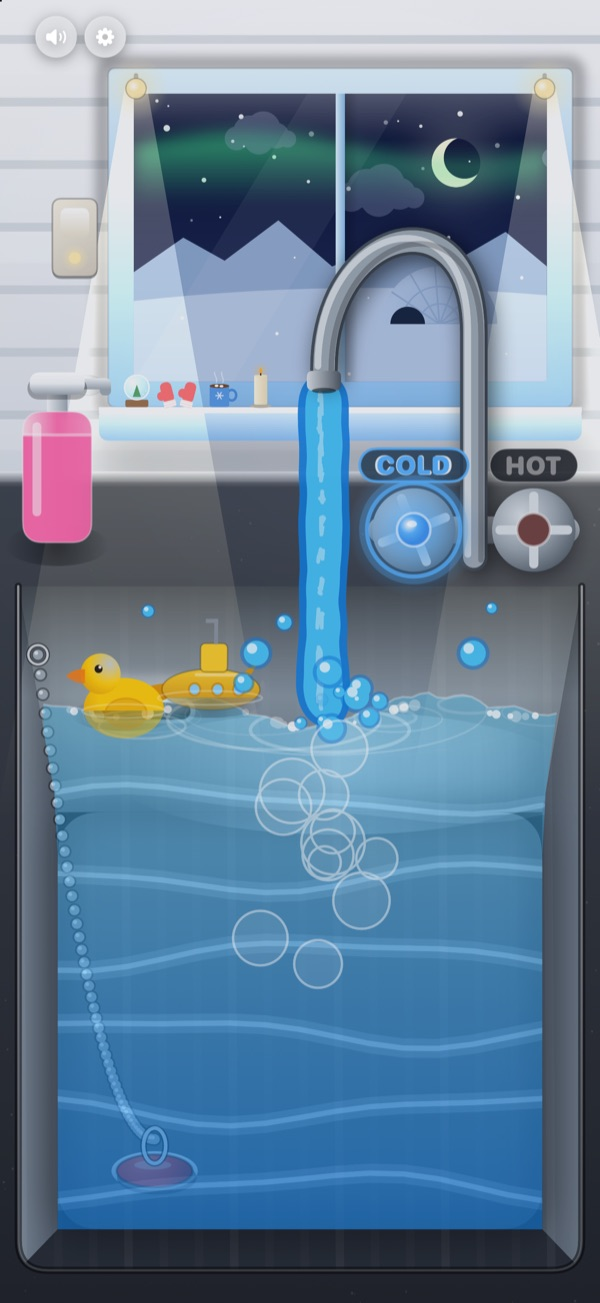
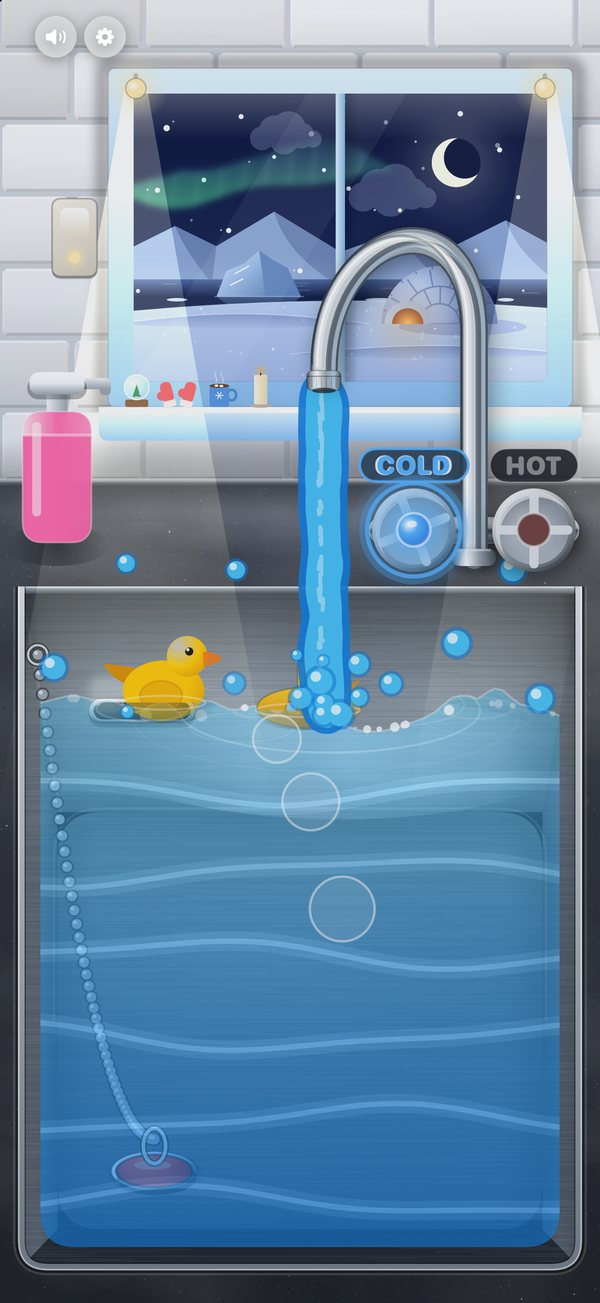
Sensory Sink: about page for version 3.0 (sideways sink, counter things, critters, two volume sliders), new screenshots

diff --git a/waterplay/about/index.html b/waterplay/about/index.html
@@ -5,7 +5,7 @@
   <meta http-equiv="Content-Security-Policy" content="upgrade-insecure-requests; object-src 'none'; base-uri 'self'; form-action 'self' https://api.web3forms.com">
   <meta name="viewport" content="width=device-width, initial-scale=1.0">
   <title>Sensory Sink: Water Play Fun! — For toddlers &amp; autistic kids</title>
-  <meta name="description" content="Sensory Sink is a calm, real-feeling water play sink for toddlers and autistic kids. Turn the taps, pull the plug, float the duck. No ads, works offline.">
+  <meta name="description" content="Sensory Sink is a calm, real-feeling water play sink for toddlers and autistic kids. Turn the taps, pull the plug, float the duck, spot the critters. No ads, works offline.">
   <meta name="robots" content="noindex, nofollow">
   <link rel="canonical" href="https://joeygameznapps.github.io/waterplay/about/">
   <link rel="stylesheet" href="/assets/css/style.css?v=n1105a">
@@ -14,7 +14,7 @@
   <meta property="og:type" content="website">
   <meta property="og:locale" content="en_US">
   <meta property="og:title" content="Sensory Sink: Water Play Fun! — For toddlers &amp; autistic kids">
-  <meta property="og:description" content="Sensory Sink is a calm, real-feeling water play sink for toddlers and autistic kids. Turn the taps, pull the plug, float the duck. No ads, works offline.">
+  <meta property="og:description" content="Sensory Sink is a calm, real-feeling water play sink for toddlers and autistic kids. Turn the taps, pull the plug, float the duck, spot the critters. No ads, works offline.">
   <meta property="og:url" content="https://joeygameznapps.github.io/waterplay/about/">
   <meta property="og:image" content="https://joeygameznapps.github.io/waterplay/img/og.jpg">
   <meta property="og:image:width" content="1200">
@@ -22,7 +22,7 @@
   <meta property="og:image:alt" content="Sensory Sink, a water play app for toddlers on iPhone and iPad, with a rubber duck floating in a filling sink">
   <meta name="twitter:card" content="summary_large_image">
   <meta name="twitter:title" content="Sensory Sink: Water Play Fun! — For toddlers &amp; autistic kids">
-  <meta name="twitter:description" content="Sensory Sink is a calm, real-feeling water play sink for toddlers and autistic kids. Turn the taps, pull the plug, float the duck. No ads, works offline.">
+  <meta name="twitter:description" content="Sensory Sink is a calm, real-feeling water play sink for toddlers and autistic kids. Turn the taps, pull the plug, float the duck, spot the critters. No ads, works offline.">
   <meta name="twitter:image" content="https://joeygameznapps.github.io/waterplay/img/og.jpg">
   <meta name="twitter:image:alt" content="Sensory Sink, a water play app for toddlers on iPhone and iPad, with a rubber duck floating in a filling sink">
   <link rel="apple-touch-icon" sizes="180x180" href="/apple-touch-icon.png">
@@ -30,7 +30,7 @@
   <link rel="icon" type="image/png" sizes="32x32" href="/favicon-32x32.png">
   <link rel="icon" type="image/png" sizes="16x16" href="/favicon-16x16.png">
   <link rel="manifest" href="/site.webmanifest">
-  <script type="application/ld+json" id="ld-seo">{"@context":"https://schema.org","@graph":[{"@type":"Organization","@id":"https://joeygameznapps.github.io/#org","name":"Joemet123 LLC","url":"https://joeygameznapps.github.io/","logo":{"@type":"ImageObject","url":"https://joeygameznapps.github.io/android-chrome-512x512.png","width":512,"height":512},"email":"Business@joemet123.com"},{"@type":"WebSite","@id":"https://joeygameznapps.github.io/#website","url":"https://joeygameznapps.github.io/","name":"JoeyGamezNAppsz (JGnA)","inLanguage":"en","publisher":{"@id":"https://joeygameznapps.github.io/#org"}},{"@type":"AboutPage","@id":"https://joeygameznapps.github.io/waterplay/about/#webpage","url":"https://joeygameznapps.github.io/waterplay/about/","name":"Sensory Sink: Water Play Fun! — For toddlers & autistic kids","description":"Sensory Sink is a calm, real-feeling water play sink for toddlers and autistic kids. Turn the taps, pull the plug, float the duck. No ads, works offline.","inLanguage":"en","isPartOf":{"@id":"https://joeygameznapps.github.io/#website"},"about":{"@id":"https://joeygameznapps.github.io/waterplay/#app"},"mainEntity":{"@id":"https://joeygameznapps.github.io/waterplay/#app"},"breadcrumb":{"@id":"https://joeygameznapps.github.io/waterplay/about/#breadcrumb"},"dateModified":"2026-11-03","primaryImageOfPage":{"@type":"ImageObject","url":"https://joeygameznapps.github.io/waterplay/img/og.jpg","width":1200,"height":630}},{"@type":"BreadcrumbList","@id":"https://joeygameznapps.github.io/waterplay/about/#breadcrumb","itemListElement":[{"@type":"ListItem","position":1,"name":"Apps","item":"https://joeygameznapps.github.io/"},{"@type":"ListItem","position":2,"name":"Sensory Sink","item":"https://joeygameznapps.github.io/waterplay/about/"}]},{"@type":"MobileApplication","@id":"https://joeygameznapps.github.io/waterplay/#app","name":"Sensory Sink: Water Play Fun!","alternateName":["Sensory Sink","Water Play"],"description":"A calm, real-feeling kitchen sink made for toddlers and autistic kids who love water: turn the taps, splash, pull the plug, pump soap bubbles and float the rubber duck. Made for Kids (ages 5 and under). No ads, no accounts, works offline.","url":"https://joeygameznapps.github.io/waterplay/about/","image":"https://joeygameznapps.github.io/icons/waterplay.png","screenshot":["https://joeygameznapps.github.io/waterplay/img/iphone_1.jpg","https://joeygameznapps.github.io/waterplay/img/iphone_6.jpg","https://joeygameznapps.github.io/waterplay/img/iphone_7.jpg","https://joeygameznapps.github.io/waterplay/img/iphone_8.jpg","https://joeygameznapps.github.io/waterplay/img/ipad_1.jpg"],"operatingSystem":"iOS 17.0 or later, iPadOS 17.0 or later","applicationCategory":"GameApplication","applicationSubCategory":"Family","genre":["Family","Casual","Education"],"contentRating":"Made for Kids, ages 5 and under","inLanguage":"en","isAccessibleForFree":true,"accessibilityFeature":["VoiceOver","Switch Control"],"installUrl":"https://apps.apple.com/app/id6810486926","downloadUrl":"https://apps.apple.com/app/id6810486926","sameAs":["https://apps.apple.com/us/app/id6810486926"],"featureList":["Hot and cold taps with on/off lamps","Multi-touch splashing","A plug to pull and push back in","Soap pump, bubbles and foam","Rubber duck, submarine and penguin toys","A steamy window to wipe","Day, sunset and night skies","Thirteen window views","No ads","No accounts","Works offline","Grown-up gate on the purchase","Family Sharing","VoiceOver and Switch Control","iPhone, iPad and iPhone Duo"],"offers":[{"@type":"Offer","price":"0","priceCurrency":"USD","category":"free"},{"@type":"Offer","name":"Unlock Everything","description":"Every window, toy, wall and sound, for good","price":"2.99","priceCurrency":"USD","category":"in-app purchase"}],"publisher":{"@id":"https://joeygameznapps.github.io/#org"},"audience":{"@type":"PeopleAudience","suggestedMinAge":0,"suggestedMaxAge":5}},{"@type":"FAQPage","@id":"https://joeygameznapps.github.io/waterplay/about/#faq","mainEntity":[{"@type":"Question","name":"Is Sensory Sink free?","acceptedAnswer":{"@type":"Answer","text":"Yes. Sensory Sink is free to download and free to play, with four windows, three toys, two wall styles in six colors and the steady water sound. One optional $2.99 purchase, Unlock Everything, opens the other nine windows, six more toys and more for good, once, with no subscription."}},{"@type":"Question","name":"Does Sensory Sink have ads?","acceptedAnswer":{"@type":"Answer","text":"No. There are no ads of any kind, no pop-ups, no analytics and no links out of the app that a child can open. The only two, for rating the app and seeing my other kids' app, sit behind the grown-up check."}},{"@type":"Question","name":"Does it work offline?","acceptedAnswer":{"@type":"Answer","text":"Yes. The sink runs entirely on the device, so it works on a plane, in a car or in a waiting room with no internet connection. Only buying or restoring the unlock needs a connection."}},{"@type":"Question","name":"Is Sensory Sink suitable for autistic children?","acceptedAnswer":{"@type":"Answer","text":"Sensory Sink is made for toddlers and autistic kids. Many autistic and sensory-seeking children love running water, and the app was designed with them in mind: calm sounds, no timers, no scores, nothing that can fail and no sudden surprises. It is a play app, not a therapy or treatment, and every child is different, so try the free version first and see how your child responds."}},{"@type":"Question","name":"What ages is Sensory Sink for?","acceptedAnswer":{"@type":"Answer","text":"Sensory Sink is made for toddlers and autistic kids, and is in the App Store's Kids category for ages 5 and under. There is no reading and nothing to win."}},{"@type":"Question","name":"Does Family Sharing work with the unlock?","acceptedAnswer":{"@type":"Answer","text":"Yes. Unlock Everything supports Family Sharing, so one purchase opens everything on every device in your family group. If it does not appear, tap Restore in the settings."}},{"@type":"Question","name":"Does it work on iPad and the iPhone Duo?","acceptedAnswer":{"@type":"Answer","text":"Yes. Sensory Sink runs on iPhone and iPad with iOS 17 or later. On iPad the sink fills the screen, and on the iPhone Duo it fits the folded cover screen and stays clear of the camera."}},{"@type":"Question","name":"Can my child buy something by accident?","acceptedAnswer":{"@type":"Answer","text":"No. Locked items show a padlock, and tapping one opens a grown-up gate, a multiplication question that has to be typed in, before the purchase sheet appears. A child tapping around the settings cannot reach a purchase."}},{"@type":"Question","name":"How do I get help?","acceptedAnswer":{"@type":"Answer","text":"Use the Sensory Sink support page. A person replies within 3 business days."}}]}]}</script>
+  <script type="application/ld+json" id="ld-seo">{"@context":"https://schema.org","@graph":[{"@type":"Organization","@id":"https://joeygameznapps.github.io/#org","name":"Joemet123 LLC","url":"https://joeygameznapps.github.io/","logo":{"@type":"ImageObject","url":"https://joeygameznapps.github.io/android-chrome-512x512.png","width":512,"height":512},"email":"Business@joemet123.com"},{"@type":"WebSite","@id":"https://joeygameznapps.github.io/#website","url":"https://joeygameznapps.github.io/","name":"JoeyGamezNAppsz (JGnA)","inLanguage":"en","publisher":{"@id":"https://joeygameznapps.github.io/#org"}},{"@type":"AboutPage","@id":"https://joeygameznapps.github.io/waterplay/about/#webpage","url":"https://joeygameznapps.github.io/waterplay/about/","name":"Sensory Sink: Water Play Fun! — For toddlers & autistic kids","description":"Sensory Sink is a calm, real-feeling water play sink for toddlers and autistic kids. Turn the taps, pull the plug, float the duck, spot the critters. No ads, works offline.","inLanguage":"en","isPartOf":{"@id":"https://joeygameznapps.github.io/#website"},"about":{"@id":"https://joeygameznapps.github.io/waterplay/#app"},"mainEntity":{"@id":"https://joeygameznapps.github.io/waterplay/#app"},"breadcrumb":{"@id":"https://joeygameznapps.github.io/waterplay/about/#breadcrumb"},"dateModified":"2026-11-13","primaryImageOfPage":{"@type":"ImageObject","url":"https://joeygameznapps.github.io/waterplay/img/og.jpg","width":1200,"height":630}},{"@type":"BreadcrumbList","@id":"https://joeygameznapps.github.io/waterplay/about/#breadcrumb","itemListElement":[{"@type":"ListItem","position":1,"name":"Apps","item":"https://joeygameznapps.github.io/"},{"@type":"ListItem","position":2,"name":"Sensory Sink","item":"https://joeygameznapps.github.io/waterplay/about/"}]},{"@type":"MobileApplication","@id":"https://joeygameznapps.github.io/waterplay/#app","name":"Sensory Sink: Water Play Fun!","alternateName":["Sensory Sink","Water Play"],"description":"A calm, real-feeling kitchen sink made for toddlers and autistic kids who love water: turn the taps, splash, pull the plug, pump soap bubbles, float the rubber duck and spot the critters. On iPad and the open iPhone Duo, turn it sideways for a bigger sink, two windows and a counter of everyday things to throw in. Made for Kids (ages 5 and under). No ads, no accounts, works offline.","url":"https://joeygameznapps.github.io/waterplay/about/","image":"https://joeygameznapps.github.io/icons/waterplay.png","screenshot":["https://joeygameznapps.github.io/waterplay/img/iphone_1.jpg?v=30","https://joeygameznapps.github.io/waterplay/img/iphone_6.jpg?v=30","https://joeygameznapps.github.io/waterplay/img/iphone_7.jpg?v=30","https://joeygameznapps.github.io/waterplay/img/iphone_8.jpg?v=30","https://joeygameznapps.github.io/waterplay/img/ipad_1.jpg?v=30"],"operatingSystem":"iOS 17.0 or later, iPadOS 17.0 or later","applicationCategory":"GameApplication","applicationSubCategory":"Family","genre":["Family","Casual","Education"],"contentRating":"Made for Kids, ages 5 and under","inLanguage":"en","isAccessibleForFree":true,"accessibilityFeature":["VoiceOver","Switch Control"],"installUrl":"https://apps.apple.com/app/id6810486926","downloadUrl":"https://apps.apple.com/app/id6810486926","sameAs":["https://apps.apple.com/us/app/id6810486926"],"featureList":["Hot and cold taps with on/off lamps","Multi-touch splashing","A plug to pull and push back in","Soap pump, bubbles and foam","Rubber duck, submarine and penguin toys","A steamy window to wipe","More than 40 kinds of critters on the wall, on the counter and outside the window","Day, sunset and night skies","Thirteen window views","A bigger sideways sink on iPad and the open iPhone Duo, with two windows","Everyday things to throw in the sink: sponge, bar of soap, mug, wooden spoon, cork, scrubbing brush, whisk and dish cloth","Toys that lift out of the sink when sideways","Two volume sliders","No ads","No accounts","Works offline","Grown-up gate on the purchase","Family Sharing","VoiceOver and Switch Control","iPhone, iPad and iPhone Duo"],"offers":[{"@type":"Offer","price":"0","priceCurrency":"USD","category":"free"},{"@type":"Offer","name":"Unlock Everything","description":"Every window, toy, wall and sound, for good","price":"2.99","priceCurrency":"USD","category":"in-app purchase"}],"publisher":{"@id":"https://joeygameznapps.github.io/#org"},"audience":{"@type":"PeopleAudience","suggestedMinAge":0,"suggestedMaxAge":5}},{"@type":"FAQPage","@id":"https://joeygameznapps.github.io/waterplay/about/#faq","mainEntity":[{"@type":"Question","name":"Is Sensory Sink free?","acceptedAnswer":{"@type":"Answer","text":"Yes. Sensory Sink is free to download and free to play, with four windows, three toys, two wall styles in six colors, the steady water sound and, on iPad and the open iPhone Duo, the whole counter of things to throw in the sink. One optional $2.99 purchase, Unlock Everything, opens the other nine windows, six more toys and more for good, once, with no subscription."}},{"@type":"Question","name":"Does Sensory Sink have ads?","acceptedAnswer":{"@type":"Answer","text":"No. There are no ads of any kind, no pop-ups, no analytics and no links out of the app that a child can open. The only two, for rating the app and seeing my other kids' app, sit behind the grown-up check."}},{"@type":"Question","name":"Does it work offline?","acceptedAnswer":{"@type":"Answer","text":"Yes. The sink runs entirely on the device, so it works on a plane, in a car or in a waiting room with no internet connection. Only buying or restoring the unlock needs a connection."}},{"@type":"Question","name":"Is Sensory Sink suitable for autistic children?","acceptedAnswer":{"@type":"Answer","text":"Sensory Sink is made for toddlers and autistic kids. Many autistic and sensory-seeking children love running water, and the app was designed with them in mind: calm sounds, no timers, no scores, nothing that can fail and no sudden surprises. It is a play app, not a therapy or treatment, and every child is different, so try the free version first and see how your child responds."}},{"@type":"Question","name":"What ages is Sensory Sink for?","acceptedAnswer":{"@type":"Answer","text":"Sensory Sink is made for toddlers and autistic kids, and is in the App Store's Kids category for ages 5 and under. There is no reading and nothing to win."}},{"@type":"Question","name":"Does Family Sharing work with the unlock?","acceptedAnswer":{"@type":"Answer","text":"Yes. Unlock Everything supports Family Sharing, so one purchase opens everything on every device in your family group. If it does not appear, tap Restore in the settings."}},{"@type":"Question","name":"Does it work on iPad and the iPhone Duo?","acceptedAnswer":{"@type":"Answer","text":"Yes. Sensory Sink runs on iPhone and iPad with iOS 17 or later. On iPad the sink fills the screen with two windows, and turned sideways it becomes a bigger sink with a counter of everyday things to throw in. On the iPhone Duo it fits the folded cover screen and stays clear of the camera, and opened up and held sideways it gets the same bigger sink, two windows and counter."}},{"@type":"Question","name":"What can my child throw in the sink?","acceptedAnswer":{"@type":"Answer","text":"On iPad and the open iPhone Duo held sideways, a counter beside the sink holds a sponge, a bar of soap, a mug, a wooden spoon, a cork, a scrubbing brush, a whisk and a dish cloth. Each does something different in the water: the sponge soaks up water and squeezes it out, the soap makes suds, the mug fills and sinks, the cork bobs. A throw that misses hops back to the counter, so nothing is ever lost. The floating toys can be lifted out and thrown back in too. On iPhone the sink stays upright, without the counter."}},{"@type":"Question","name":"Can my child buy something by accident?","acceptedAnswer":{"@type":"Answer","text":"No. Locked items show a padlock, and tapping one opens a grown-up gate, a multiplication question that has to be typed in, before the purchase sheet appears. A child tapping around the settings cannot reach a purchase."}},{"@type":"Question","name":"How do I get help?","acceptedAnswer":{"@type":"Answer","text":"Use the Sensory Sink support page. A person replies within 3 business days."}}]}]}</script>
 </head>
 <body data-app="waterplay">
   <a class="skip-link" href="#main">Skip To Main Content</a>
@@ -85,18 +85,19 @@
 <section class="legal-sec" id="overview">
 <h2>A calming sink game for kids</h2>
 <p class="lede">Sensory Sink (formerly Water Play) is a real-feeling kitchen sink for little hands, made for toddlers and autistic kids. Turn the taps, fill the bowl, pull the plug and watch it drain. No ads, no accounts, nothing to fail.</p>
-<p>It is calm, open-ended water play for toddlers, preschoolers, autistic kids and every child who can't walk past a running tap. There are no levels, no timers and no wrong answers. Just water, bubbles and a rubber duck.</p>
+<p>It is calm, open-ended water play for toddlers, preschoolers, autistic kids and every child who can't walk past a running tap. There are no levels, no timers and no wrong answers. Just water, bubbles, a rubber duck and whoever wanders by.</p>
+<p>New: turn an iPad sideways, or open an iPhone Duo, for a bigger sink, two windows with different views and a counter of everyday things to throw in the water.</p>
 <p><a class="btn btn-accent" href="https://apps.apple.com/app/id6810486926" target="_blank" rel="noopener">Download Sensory Sink free</a></p>
 </section>
 <section class="legal-sec" id="screenshots">
 <h2>Sensory Sink screenshots</h2>
 <div class="ss-gallery">
-  <figure class="ss-shot"><img src="/waterplay/img/iphone_1.jpg" alt="Sensory Sink on iPhone: a running tap fills a sink with bubbles, a rubber duck and a yellow submarine, under a garden window on a red brick wall" width="600" height="1303" loading="lazy" decoding="async"><figcaption>A real sink for toddlers</figcaption></figure>
-  <figure class="ss-shot"><img src="/waterplay/img/iphone_6.jpg" alt="Sensory Sink on iPhone: a jungle window with a waterfall and a gecko on a green wooden wall above the filling sink" width="600" height="1303" loading="lazy" decoding="async"><figcaption>Thirteen windows to explore</figcaption></figure>
-  <figure class="ss-shot"><img src="/waterplay/img/iphone_7.jpg" alt="Sensory Sink on iPhone at night: a snowy Arctic window under the northern lights, with a light switch on the wall beside it" width="600" height="1303" loading="lazy" decoding="async"><figcaption>No ads, works offline</figcaption></figure>
-  <figure class="ss-shot"><img src="/waterplay/img/iphone_8.jpg" alt="Sensory Sink on iPhone at sunset: a desert window with a cactus above a full sink on a teal tiled wall" width="600" height="1303" loading="lazy" decoding="async"><figcaption>Works on iPhone and iPad</figcaption></figure>
+  <figure class="ss-shot"><img src="/waterplay/img/iphone_1.jpg?v=30" alt="Sensory Sink on iPhone: a running tap fills a sink with bubbles, a rubber duck and a yellow submarine, under a garden window on a red brick wall" width="600" height="1303" loading="lazy" decoding="async"><figcaption>A real sink for toddlers</figcaption></figure>
+  <figure class="ss-shot"><img src="/waterplay/img/iphone_6.jpg?v=30" alt="Sensory Sink on iPhone: a jungle window with a tumbling waterfall above the filling sink on a green wall" width="600" height="1303" loading="lazy" decoding="async"><figcaption>Thirteen windows to explore</figcaption></figure>
+  <figure class="ss-shot"><img src="/waterplay/img/iphone_7.jpg?v=30" alt="Sensory Sink on iPhone at night: a snowy Arctic window under the northern lights, with the lamps lit over the sink" width="600" height="1303" loading="lazy" decoding="async"><figcaption>No ads, works offline</figcaption></figure>
+  <figure class="ss-shot"><img src="/waterplay/img/iphone_8.jpg?v=30" alt="Sensory Sink on iPhone at night: an aquarium window with fish and seaweed above a full sink, lit by two lamps" width="600" height="1303" loading="lazy" decoding="async"><figcaption>Works on iPhone and iPad</figcaption></figure>
 </div>
-  <figure class="ss-shot ss-shot--wide"><img src="/waterplay/img/ipad_1.jpg" alt="Sensory Sink on iPad: a large sink filling under a garden window, with the soap pump, the hot and cold taps and the rubber duck" width="900" height="1200" loading="lazy" decoding="async"><figcaption>The whole sink on iPad</figcaption></figure>
+  <figure class="ss-shot ss-shot--wide"><img src="/waterplay/img/ipad_1.jpg?v=30" alt="Sensory Sink on iPad held sideways: a wide sink under two garden windows, with the soap pump, the taps, the rubber duck and a counter of things to throw in" width="1200" height="900" loading="lazy" decoding="async"><figcaption>A bigger sink on iPad, held sideways</figcaption></figure>
 </section>
 <section class="legal-sec" id="toddler-water-game">
 <h2>A toddler water game for little hands</h2>
@@ -107,8 +108,13 @@
   <li><strong>Pull the plug,</strong> watch the swirl, then pop it back in.</li>
   <li><strong>Pump the soap</strong> into pink bubbles and foam.</li>
   <li><strong>Wipe the steamy window</strong> with a finger when the hot tap has been running.</li>
-  <li><strong>Shoo the butterflies and bees</strong> off the wall.</li>
+  <li><strong>Spot the critters:</strong> more than 40 kinds across the rooms, from bugs on the wall and little animals on the counter to birds and fish outside the window. A tap shoos one along.</li>
   <li><strong>At night, flip the light switch</strong> and watch the lamps glow.</li>
+</ul>
+<p><strong>On iPad and the open iPhone Duo,</strong> turn the screen sideways and the sink spreads out across it, with two windows, each with its own view, and two more things on the second windowsill.</p>
+<ul>
+  <li><strong>Throw things in the sink.</strong> A counter beside the bowl holds a sponge that soaks up water and squeezes it out, a bar of soap that makes suds, a mug that fills and sinks, a wooden spoon, a cork that bobs, a scrubbing brush, a whisk and a dish cloth. A throw that misses hops back to the counter.</li>
+  <li><strong>Lift the toys out</strong> of the water, set them on the counter and throw them back in.</li>
 </ul>
 </section>
 <section class="legal-sec" id="sensory-play">
@@ -116,7 +122,8 @@
 <ul>
   <li><strong>The sink can never flood,</strong> and nothing can go wrong. An overflow slot lets the bowl be filled for as long as anyone likes.</li>
   <li><strong>The play never stops.</strong> If the bowl sits empty, the plug drops back in and the tap turns on again by itself.</li>
-  <li><strong>Soft sounds and gentle motion,</strong> a choice of running-water sounds and a mute button in the corner.</li>
+  <li><strong>Soft sounds and gentle motion,</strong> a choice of running-water sounds, two volume sliders in the settings, one for the water and one for the birds and nature, a quieter sound to start with and a mute button in the corner.</li>
+  <li><strong>Straight to the water.</strong> The app opens on the sink, with no intro to wait through.</li>
   <li><strong>One hint at a time,</strong> with a pulsing ring on the thing it names, and each one goes away for good once it has been used.</li>
   <li><strong>Works fully offline,</strong> on the plane, in the car or in the waiting room.</li>
 </ul>
@@ -124,23 +131,24 @@
 <section class="legal-sec" id="rubber-duck">
 <h2>A rubber duck bath game, and more toys</h2>
 <p>Poke a toy and it answers: the duck squeaks, the submarine dives with a trail of bubbles, and every toy bobs and drifts with the water. Free players get the rubber duck, the submarine and the penguin, with two in the bowl at once. The unlock adds a whale, a shark, a sailboat, a frog, a sea turtle and an octopus, and up to three toys at once.</p>
-<p>Thirteen windows look out on a garden, a farm, an aquarium, a rainy city, mountains, space, a kitchen, a beach, a forest, the Arctic, a desert, a jungle and a Christmas scene, each with its own things on the sill and its own visitors. Day, sunset and night skies are all free.</p>
+<p>Thirteen windows look out on a garden, a farm, an aquarium, a rainy city, mountains, space, a kitchen, a beach, a forest, the Arctic, a desert, a jungle with a tumbling waterfall and a Christmas scene, each with its own things on the sill, its own critters and its own visitors. Day, sunset and night skies are all free.</p>
 </section>
 <section class="legal-sec" id="sensory-friendly">
 <h2>Made for toddlers and autistic kids</h2>
 <p>Sensory Sink is made for toddlers and autistic kids. Many autistic and sensory-seeking children are drawn to running water, and the app was built around that. It is designed to be predictable and calm, so it is a sensory-friendly place to play: no timers, no scores, no fail states, no flashing rewards and no sudden loud sounds. Every control belongs to the child, there is no wrong order to do things in, and nothing needs to be read.</p>
 <p>Sensory Sink is a play app. It is not a therapy, a treatment or a medical device, and it makes no claims about outcomes. Every child is different, so the free version is there to try first.</p>
-<p><strong>Accessibility:</strong> with VoiceOver or Switch Control, every tap, toy, plug and critter is its own control with a spoken label.</p>
+<p><strong>Accessibility:</strong> with VoiceOver or Switch Control, every tap, toy, plug, critter and counter thing is its own control with a spoken label.</p>
 </section>
 <section class="legal-sec" id="free-and-unlock">
 <h2>What is free, and the unlock</h2>
 <p><strong>Free to play:</strong></p>
 <ul>
-  <li>Four windows: garden, farm, aquarium and a rainy city</li>
+  <li>Four windows: garden, farm, aquarium and a rainy city, each with its own critters</li>
   <li>Day, sunset and night skies</li>
   <li>Brick or tiled walls in six colors</li>
   <li>Rubber duck, submarine and penguin, two in the bowl at once</li>
-  <li>The steady running-water sound</li>
+  <li>The steady running-water sound, and both volume sliders</li>
+  <li>On iPad and the open iPhone Duo, the whole counter of things to throw in the sink</li>
 </ul>
 <p><strong>Unlock Everything, $2.99 once, no subscription:</strong></p>
 <ul>
@@ -169,7 +177,7 @@
 <div class="faq">
           <div class="faq-item">
             <p class="faq-q">Is Sensory Sink free?</p>
-            <p class="faq-a">Yes. Sensory Sink is free to download and free to play, with four windows, three toys, two wall styles in six colors and the steady water sound. One optional $2.99 purchase, Unlock Everything, opens the other nine windows, six more toys and more for good, once, with no subscription.</p>
+            <p class="faq-a">Yes. Sensory Sink is free to download and free to play, with four windows, three toys, two wall styles in six colors, the steady water sound and, on iPad and the open iPhone Duo, the whole counter of things to throw in the sink. One optional $2.99 purchase, Unlock Everything, opens the other nine windows, six more toys and more for good, once, with no subscription.</p>
           </div>
           <div class="faq-item">
             <p class="faq-q">Does Sensory Sink have ads?</p>
@@ -193,7 +201,11 @@
           </div>
           <div class="faq-item">
             <p class="faq-q">Does it work on iPad and the iPhone Duo?</p>
-            <p class="faq-a">Yes. Sensory Sink runs on iPhone and iPad with iOS 17 or later. On iPad the sink fills the screen, and on the iPhone Duo it fits the folded cover screen and stays clear of the camera.</p>
+            <p class="faq-a">Yes. Sensory Sink runs on iPhone and iPad with iOS 17 or later. On iPad the sink fills the screen with two windows, and turned sideways it becomes a bigger sink with a counter of everyday things to throw in. On the iPhone Duo it fits the folded cover screen and stays clear of the camera, and opened up and held sideways it gets the same bigger sink, two windows and counter.</p>
+          </div>
+          <div class="faq-item">
+            <p class="faq-q">What can my child throw in the sink?</p>
+            <p class="faq-a">On iPad and the open iPhone Duo held sideways, a counter beside the sink holds a sponge, a bar of soap, a mug, a wooden spoon, a cork, a scrubbing brush, a whisk and a dish cloth. Each does something different in the water: the sponge soaks up water and squeezes it out, the soap makes suds, the mug fills and sinks, the cork bobs. A throw that misses hops back to the counter, so nothing is ever lost. The floating toys can be lifted out and thrown back in too. On iPhone the sink stays upright, without the counter.</p>
           </div>
           <div class="faq-item">
             <p class="faq-q">Can my child buy something by accident?</p>
